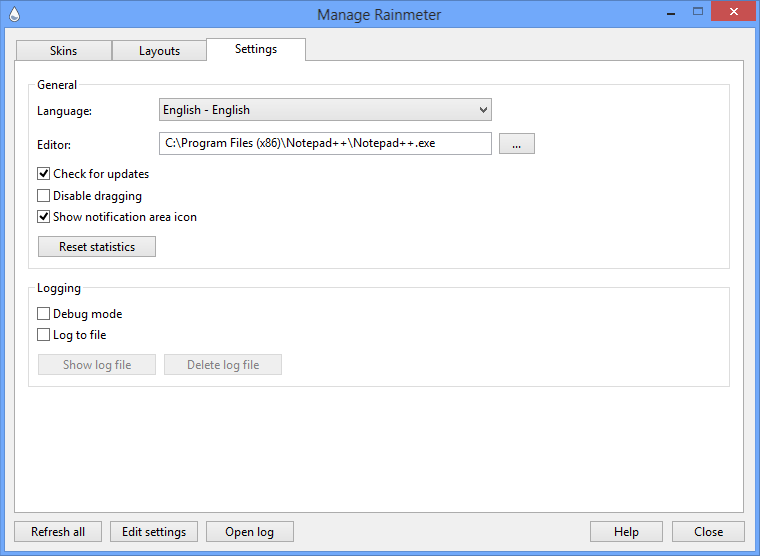
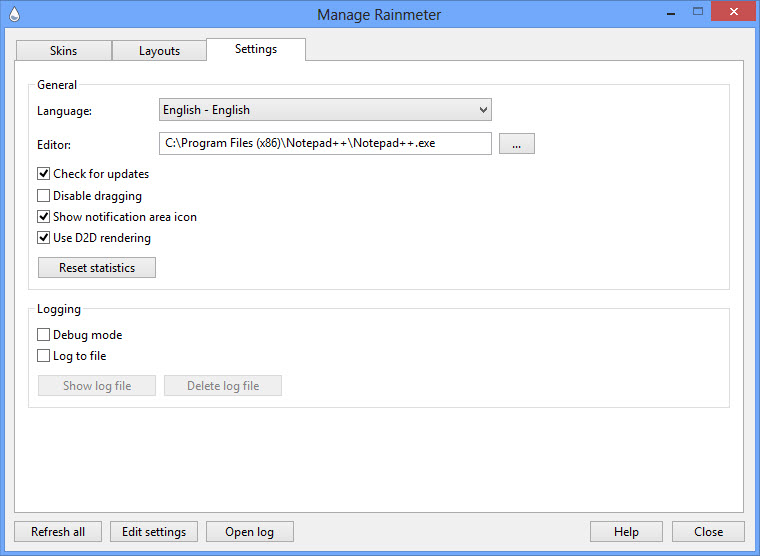
Changes for latest beta.

Changed region(s): [[0.0303, 0.3975, 0.3934, 0.7338], [0.5145, 0.0, 0.5447, 0.0306], [0.4237, 0.0, 0.4539, 0.0306]]

diff --git a/manual-beta/plugins/webparser.html b/manual-beta/plugins/webparser.html
@@ -33,6 +33,7 @@ StringIndex=2
 {% endhighlight %}
 <p>The values of the two <a href="#ParentChild">child</a> measures are now the information parsed into StringIndexes 1 and 2 by the <a href="#ParentChild">parent</a> measure. These can then be used with <a href="!meters/general-options/#MeasureName">MeasureName</a> and other options in <a href="!meters">meters</a>.
 
+
 <p><b>Note:</b> More information and examples for WebParser can be found at <a href="/tips/webparser-tutorial">WebParser Tutorial</a> and <a href="/tips/rss-feed-tutorial">RSS/Atom Feed Tutorial</a>.</p>
 
 <h2>Options</h2>
@@ -49,6 +50,10 @@ StringIndex=2
 		<p id="Authentication">WebParser <b>cannot</b> use cookies or other session-based authentication, so it <b>cannot</b> be used to retrieve information from web sites requiring a login. However, Webparser <b>can</b> be used on sites which support <a href="http://en.wikipedia.org/wiki/Basic_access_authentication">HTTP authentication</a>. E.g. <code>http://myname:mypassword@somesite.com</code>.</p>
 
 		<p id="Local">WebParser can read and parse local files on your computer by using the <code>file://</code> <a href="http://en.wikipedia.org/wiki/File_URI_scheme">URI scheme</a>. E.g. <code>URL=file://<a href="!variables/built-in-variables#CURRENTPATH">#CURRENTPATH#</a>SomeFile.txt</code>.</p>
+		
+		<p>If you want to use the current value of a WebParser measure in a dynamic way as a <a href="!variables/section-variables">Section Variable</a>, rather than as a reference to a "parent" WebParser measure, you must prefix the name of the measure with the <code>&</code> character.</p>
+
+		<p><code>URL=http://SomeSite.com\[&WebMeasure]</code></p>
 	</dd>
 
 	<dt id="RegExp"><code>RegExp</code></dt>
@@ -79,7 +84,11 @@ StringIndex=2
 	<dd>
 		<p>The rate in milliseconds determining how often the webpage is downloaded. This is relative to the config's main <a href="!skins#Update">Update</a> rate <b>and</b> any <a href="!measures/general-options/#UpdateDivider">UpdateDivider</a> on the measure. So the formula would be <code>Update</code> X <code>UpdateDivider</code> X <code>UpdateRate</code> = "how often the measure connects to the site".</p>
 
-		<p><b>Note:</b> Some caution should be used in determining how often to connect to a site with WebParser. Excessively accessing a site can cause your computer to be seen as an "attack" and result in being blocked. The <code>UpdateRate</code> option defaults to <code>600</code> as a safety measure. This should not be changed unless there is some reason to connect more or less often to the site.</p>
+		<p><b>Notes:</b> Some caution should be used in determining how often to connect to a site with WebParser. Excessively accessing a site can cause your computer to be seen as an "attack" and result in being blocked. The <code>UpdateRate</code> option defaults to <code>600</code> as a safety measure. This should not be changed unless there is some reason to connect more or less often to the site.</p>
+		
+		<p>In order to override the UpdateRate set on a WebParser measure, to have it connect to the site and download the data "right now", the <a href="!bangs#CommandMeasure">!CommandMeasure</a> bang must be used, with the name of the "parent" measure as the first parameter, and "Update" as the second.</p>
+		
+		<p><code>LeftMouseUpAction=[!SetOption WebMeasure URL "http://SomeNewSite.com"][!CommandMeasure WebMeasure Update]</code></p>
 	</dd>
 
 	<dt id="DecodeCharacterReference"><code>DecodeCharacterReference</code> <small>Default: <code>0</code></small></dt>
@@ -162,6 +171,22 @@ StringIndex=2
 		 <p>Codepage definitions and more information can be found at <a href="http://www.microsoft.com/globaldev/reference/wincp.mspx">Windows code pages</a>.</p>
 	</dd>
 </dl>
+
+<h2>WebParser and Dynamic Variables</h2>
+
+<p>Dynamic variables can be used with the WebParser plugin.  There are some things specific to WebParser that should be kept in mind when doing things in a dynamic way in WebParser measures:</p>
+
+<p>WebParser uses <a href="#UpdateRate">UpdateRate</a> to determine how often the plugin should actually access the site or file. While you can dynamically change any option on a WebParser measure, the plugin will not use the changes and access the site again until the next UpdateRate is reached. Just using <a href="!bangs#Update">!Update</a> or <a href="!bangs#UpdateMeasure">!UpdateMeasure</a> will NOT override the UpdateRate.</p>
+
+<p>In order to have a dynamic change make WebParser parse the site "right now", you will use the <a href="!bangs#CommandMeasure">!CommandMeasure</a> bang with the "parent" WebParser measure as the first parameter, and "Update" as the second.</p>
+
+<p><code>LeftMouseUpAction=[!SetOption WebMeasure URL "http://SomeNewSite.com"][!CommandMeasure WebMeasure Update]</code></p>
+
+<p>If you dynamically change an option on a "child" WebParser measure that depends on a "parent" measure, (like StringIndex for instance) you MUST use !CommandMeasure with "Update", targeting the "parent" WebParser measure. The values of child WebParser measures are a function of the parent measure, and are only updated when the parent is. You should never use !CommandMeasure on a "child" measure.</p>
+
+<p>If you want to use the current value of a WebParser measure in a dynamic way as a <a href="!variables/section-variables">Section Variable</a>, rather than as a reference to a "parent" WebParser measure, you must prefix the name of the measure with the <code>&</code> character.</p>
+
+<p><code>URL=http://SomeSite.com\[&WebMeasure]</code></p>
 
 <h2>Examples</h2>
 

diff --git a/history.html b/history.html
@@ -8,6 +8,14 @@ title: 'Version History'
 
 <h2 id="3.0">Rainmeter 3.0</h2>
 
+<p>August 4, 2013 - Revision 2047<br/>
+<ul>
+<li><b>Changed</b> WebParser: WebParser now supports <a href="http://docs.rainmeter.net/manual-beta/variables#DynamicVariables">Dynamic Variables</a>. See <a href="http://rainmeter.net/forum/viewtopic.php?p=90521#p90521">Change Announcements</a> for <b>important</b> details.</li>
+<li><b>Changed</b> Rainmeter: Important improvements made to the D2D (Direct2D) rendering option for Rainmeter.  See <a href="http://rainmeter.net/forum/viewtopic.php?p=90520#p90520">Change Announcements</a> for <b>important</b> details.</li>
+<li><b>Added</b> Manage Dialog: Added "UseD2D" option in the Manage / Settings Tab. If checked, all skins are refreshed using D2D (Direct2D) rendering. The option is disabled on systems that do not support D2D.  Windows 7 with the latest <a href="http://www.microsoft.com/en-us/download/details.aspx?id=36805">Platform Update</a> or Windows 8 is required.</li>
+<li><b>Added</b> Rainmeter: Added AccurateText option in the [Rainmeter] section of skins. When AccurateText=0 (default) and UseD2D=0, inaccurate GDI+ measuring of text is used. When AccurateText=1 and UseD2D=0, Accurate measuring occurs similar to D2D. When AccurateText=0 and UseD2D=1, D2D adds padding to the text similar to GDI+. When AccurateText=1 and UseD2D=1, Accurate measuring occurs using D2D.</li>
+</ul>
+
 <h3 id="r2022">21 July, 2013 <small>(r2022)</small></h3>
 <ul>
 <li><b>Removed</b> String meter: Due to problems and inconsistent behavior, removed the ability to include trailing spaces on the Text option that was added in previous betas.  See the new Padding option for an alternative solution.</li>

diff --git a/manual-beta/user-interface/manage.html b/manual-beta/user-interface/manage.html
@@ -191,6 +191,7 @@ title: 'Manage'
 <li><b>Check for updates</b><br>If selected, Rainmeter will check online when started to see if the running version is the most recent release version, and will prompt the user to upgrade if not. This has no effect on beta versions of Rainmeter.</li>
 <li><b>Disable dragging</b><br>If selected, automatically sets the <b>draggable</b> state of all active skins to prevent dragging skins with the mouse.</li>
 <li><b>Show notification area icon</b><br>Shows or hides the Rainmeter icon in the Windows notification area (system tray).</li>
+<li><b>Use D2D rendering</b><br>Use Direct2D rendering in Rainmeter.  This requires Windows 8, or Windows 7 with the <a href="http://www.microsoft.com/en-us/download/details.aspx?id=36805">Platform Update</a> applied.</li>
 <li><b>Reset statistics</b><br>When clicked, clears all saved <b>network</b> and other statistics from the Rainmeter.stat file in the <a href="!variables/built-in-variables#SETTINGSPATH">settings folder</a>.</li>
 </ul>
 <br>

diff --git a/manual-beta/skins/rainmeter-section.html b/manual-beta/skins/rainmeter-section.html
@@ -17,6 +17,11 @@ title: '[Rainmeter] section'
 		<p><b>Note:</b> Update is not related to the system clock, and if a computer is busy or a complicated skin takes longer than the interval to complete a full update of the skin, updates can be unreliable in relation to elapsed time.  Do not use the Update value to drive clocks or other timing sensitive functions.</p>		
 	</dd>
 
+	<dt id="AccurateText"><code>AccurateText</code> <small>Default: <code>0</code></small></dt>
+	<dd>
+		<p>If set to <code>1</code>, String meters are measured and rendered using improved padding and character spacing similar to that provided by Direct2D.</p>
+	</dd>
+
 	<dt id="DynamicWindowSize"><code>DynamicWindowSize</code> <small>Default: <code>0</code></small></dt>
 	<dd>
 		<p>If set to <code>1</code>, the window size is adjusted on each update to fit the meters.</p>

diff --git a/manual-beta/variables/index.html b/manual-beta/variables/index.html
@@ -66,7 +66,6 @@ Bar=http://www.#Foo#.net/
 	<li><a href="!plugins/mediakey">MediaKey</a></li>
 	<li><a href="!plugins/power">Power</a></li>
 	<li><a href="!plugins/virtualdesktops">VirtualDesktops</a></li>
-	<li><a href="!plugins/webparser">WebParser</a></li>
 	<li>3rd-party plugins are not guaranteed to support dynamic variables.</li>
 </ul>
 
